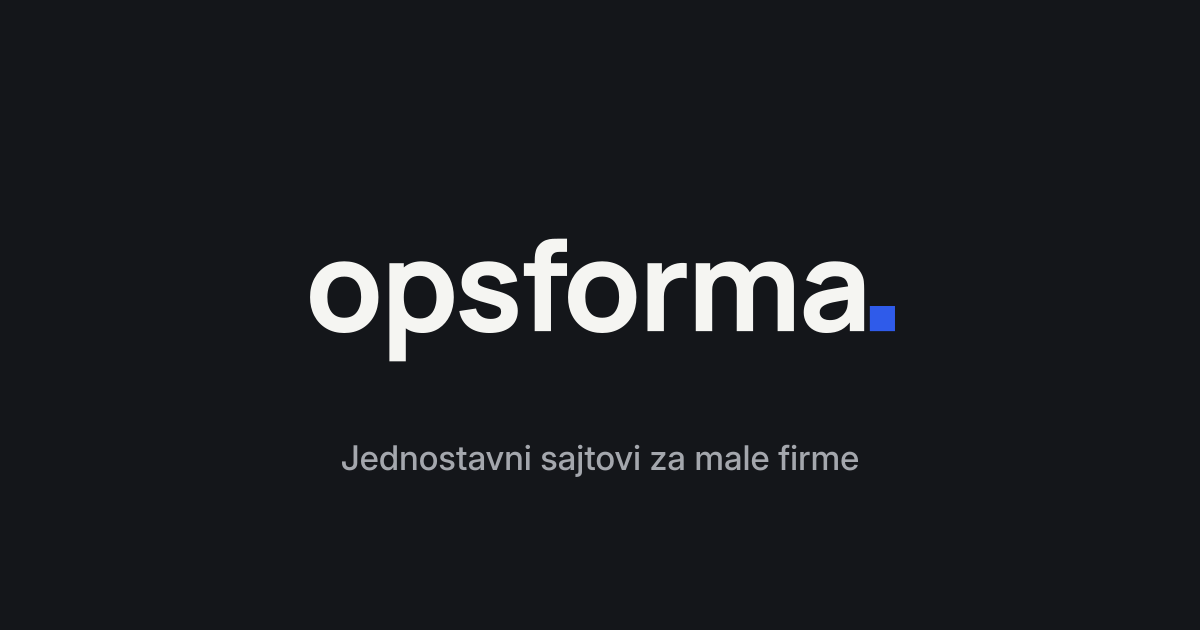
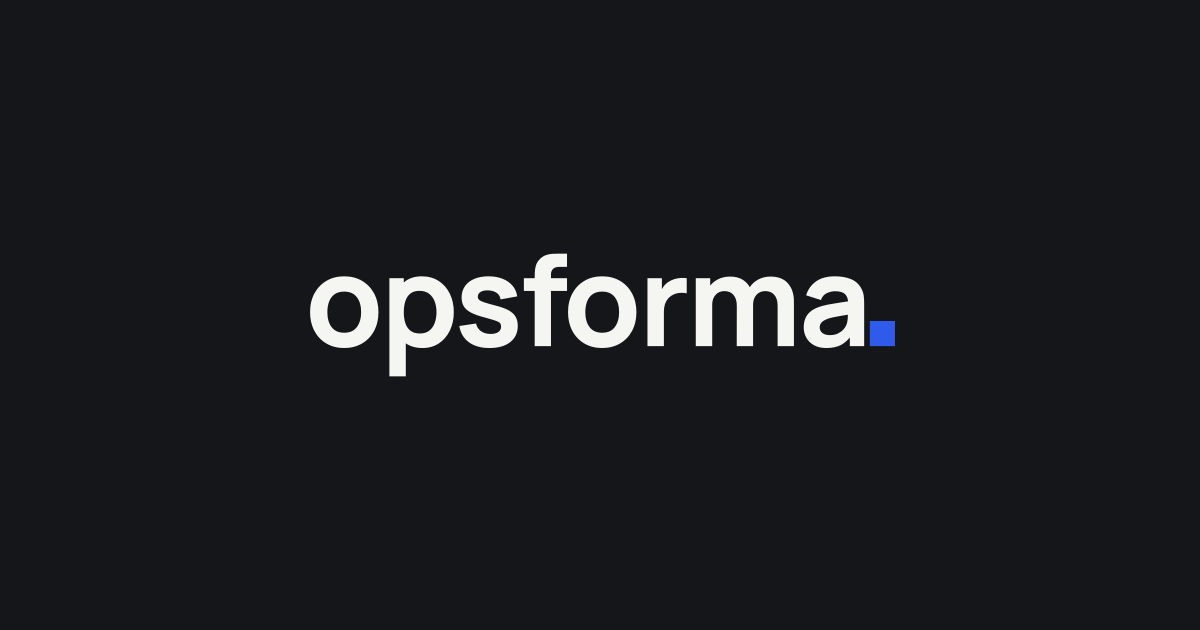
Naslovna bez oznake „Sajtovi za male firme“, og slika samo sa logom
Claude-Session: https://claude.ai/code/session_01KYf7FgT6hgatb8mjeffUG1

Changed region(s): [[0.2467, 0.3619, 0.7708, 0.573], [0.2775, 0.6937, 0.7092, 0.754], [0.3083, 0.573, 0.3392, 0.6032]]

diff --git a/index.html b/index.html
@@ -19,7 +19,7 @@
 <meta property="og:image" content="https://opsforma.rs/og-slika-1200x630.png">
 <meta property="og:image:width" content="1200">
 <meta property="og:image:height" content="630">
-<meta property="og:image:alt" content="opsforma: jednostavni sajtovi za male firme">
+<meta property="og:image:alt" content="opsforma">
 <meta name="twitter:card" content="summary_large_image">
 <link rel="preconnect" href="https://fonts.googleapis.com">
 <link rel="preconnect" href="https://fonts.gstatic.com" crossorigin>
@@ -431,7 +431,6 @@
   <section class="hero" aria-labelledby="naslov">
     <div class="wrap hero-grid">
       <div>
-        <p class="eyebrow">Sajtovi za male firme</p>
         <h1 id="naslov">Budite vidljivi tamo gde Vas traže<span class="dot" aria-hidden="true"></span></h1>
         <p class="hero-text">Pravimo sajtove za firme koje žele bolju vidljivost na internetu: brze na telefonu, sa jasnim cenama, radnim vremenom, mapom i dugmetom za poziv. Po potrebi i sa online zakazivanjem ili porudžbinama. Osnovni sajt je gotov za 3 dana od kad dobijemo Vaše podatke.</p>
         <div class="hero-actions">

diff --git a/paketi/index.html b/paketi/index.html
@@ -19,7 +19,7 @@
 <meta property="og:image" content="https://opsforma.rs/og-slika-1200x630.png">
 <meta property="og:image:width" content="1200">
 <meta property="og:image:height" content="630">
-<meta property="og:image:alt" content="opsforma: jednostavni sajtovi za male firme">
+<meta property="og:image:alt" content="opsforma">
 <meta name="twitter:card" content="summary_large_image">
 <link rel="preconnect" href="https://fonts.googleapis.com">
 <link rel="preconnect" href="https://fonts.gstatic.com" crossorigin>
